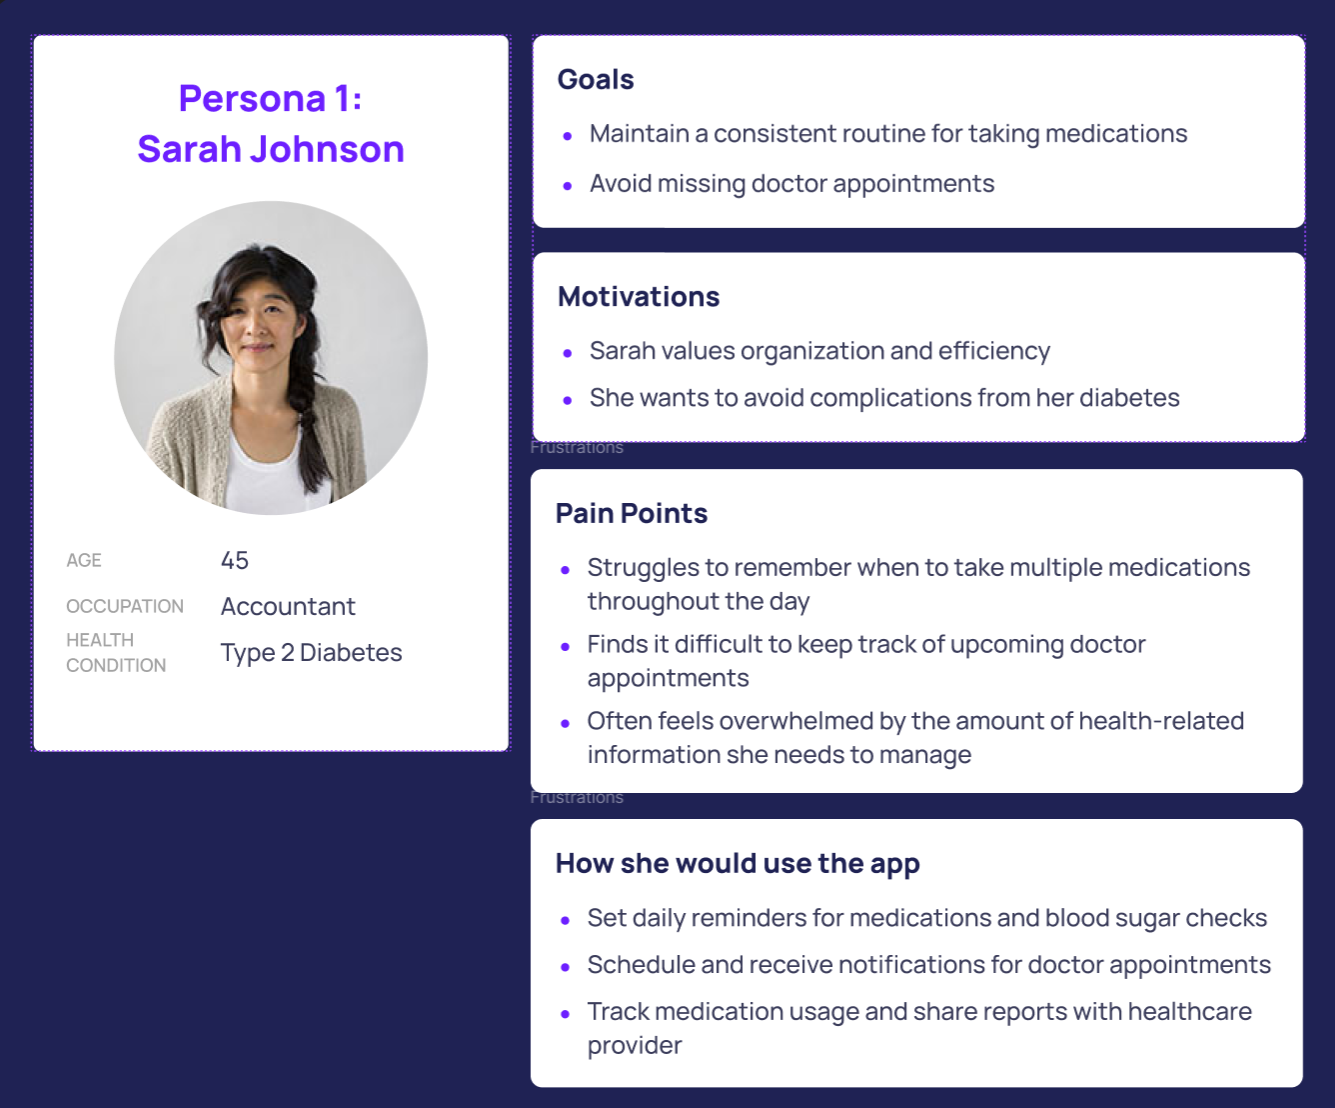
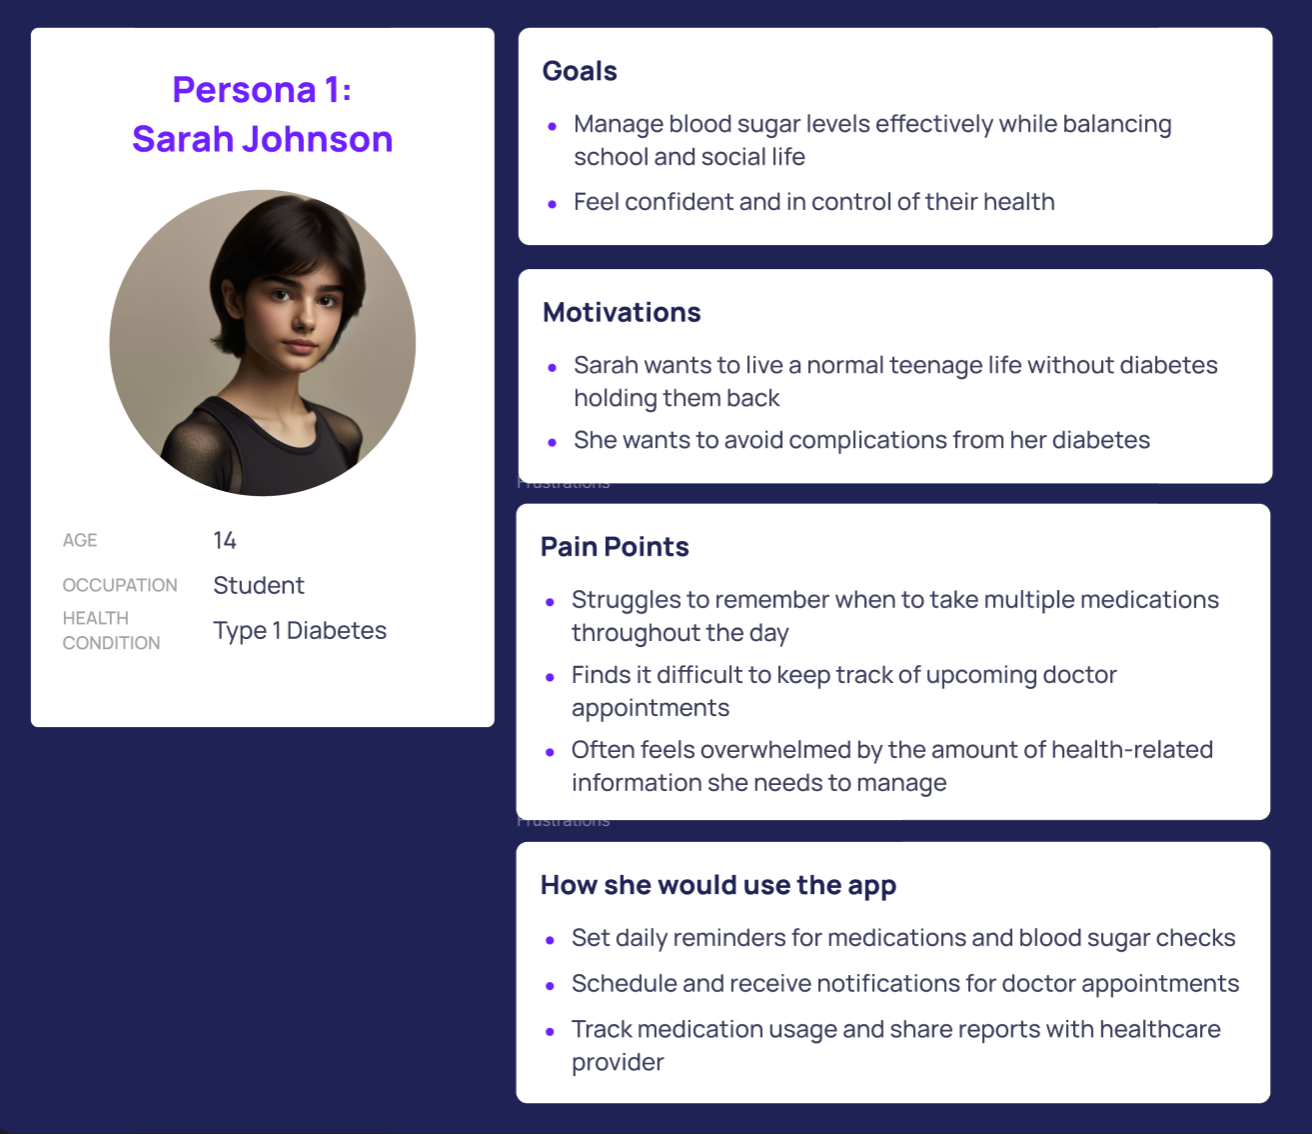
reformatted website to be more like an article and updated wireframe

Changed region(s): [[0.0, 0.0, 1.0, 0.9819], [0.0312, 0.0, 0.375, 0.0307]]

diff --git a/index.html b/index.html
@@ -3,57 +3,101 @@
 <head>
   <meta charset="UTF-8">
   <meta name="viewport" content="width=device-width, initial-scale=1.0">
-  <title>Case Study Report</title>
+  <title>Case Study: Health Companion Super App</title>
   <link rel="stylesheet" href="styles.css">
 </head>
 <body>
   <header>
-    <div class="container">
-      <h1>Case Study Report</h1>
-      <p>Health Management App</p>
-    </div>
+    <h1>Case Study: Health Companion Super App</h1>
+    <p>Designing a mobile app to help individuals manage chronic health conditions.</p>
   </header>
 
   <main>
-    <section class="intro">
-      <div class="container">
-        <h2>Welcome to the Case Study Report</h2>
-        <p>
-          This report outlines the design process for a health management app aimed at helping individuals with chronic health conditions manage their medications and doctor appointments. Explore the following sections to learn more:
-        </p>
+    <!-- Introduction Section -->
+    <section id="introduction">
+      <h2>Introduction</h2>
+      <p>
+        Chronic health conditions require consistent management of medications, appointments, and communication with healthcare providers. This case study outlines the design process for the <strong>Health Companion Super App</strong>. 
+        The mobile app's goal is to simplify these tasks and most importantly to help users keep up with their health needs.
+      </p>
+    </section>
+
+    <!-- Task Section -->
+    <section id="task">
+      <h2>The Task</h2>
+      <p>
+        The goal was to design a user-friendly mobile app that allows users to:
+      </p>
+      <ul>
+        <li>Set medication reminders</li>
+        <li>Track medication usage</li>
+        <li>Schedule and manage doctor appointments</li>
+        <li>Communicate with healthcare professionals</li>
+      </ul>
+    </section>
+
+    <!-- Personas Section -->
+    <section id="personas">
+      <h2>Personas</h2>
+      <p>
+        Based on user research, three personas were created to represent the target users:
+      </p>
+      <div class="persona-grid">
+        <div class="persona">
+          <img src="Persona-1.png" alt="Persona 1: The Independant Teenager">
+          <p><strong>The Independant Teenager</strong></p>
+        </div>
+        <div class="persona">
+          <img src="Persona-2.png" alt="Persona 2: The Busy Dad">
+          <p><strong>The Busy Dad</strong></p>
+        </div>
+        <div class="persona">
+          <img src="Persona-3.png" alt="Persona 3: The Forgetful Senior">
+          <p><strong>The Forgetful Senior</strong></p>
+        </div>
       </div>
     </section>
 
-    <section class="links">
-      <div class="container">
-        <div class="card">
-          <a href="personas.html">
-            <h3>Personas</h3>
-            <p>Explore the user personas representing typical users of the app.</p>
-          </a>
-        </div>
+    <!-- User Journey Map Section -->
+    <section id="user-journey">
+      <h2>User Journey Map</h2>
+      <p>
+        The user journey map allows developpers to identify steps in the user process that can cause inconveniences for the user.
+        This helps identify situations which might require more research or improvement.
+      </p>
+      <img src="user-journey-map.png" alt="User Journey Map" class="full-width-image">
+    </section>
 
-        <div class="card">
-          <a href="user-journey.html">
-            <h3>User Journey Map</h3>
-            <p>Understand the user journey and pain points in the current workflow.</p>
-          </a>
-        </div>
+    <!-- Wireframes Section -->
+    <section id="wireframes">
+      <h2>Wireframes</h2>
+      <p>
+        A few wireframe sketches were made on paper to get feedback on the layout of the app. 
+        The following image is the final version of the wireframe which was later used to help deisgn the prototype.
+      </p>
+      <img src="wireframe.jpg" alt="Wireframes" class="full-width-image">
+    </section>
 
-        <div class="card">
-          <a href="wireframes.html">
-            <h3>Wireframes & Prototypes</h3>
-            <p>View the wireframes and interactive prototypes of the app.</p>
-          </a>
-        </div>
+    <!-- Prototype Section -->
+    <section id="prototype">
+      <h2>Prototype</h2>
+      <p>
+        The following clickable prototype was produced using Figma to showcase the interface and test it's ease of use. The window below can be used to test it out.
+      </p>
+      <div class="prototype-embed">
+        <iframe
+          style="border: 1px solid rgba(0, 0, 0, 0.1);"
+          width="100%"
+          height="600"
+          src="https://www.figma.com/embed?embed_host=share&url=https%3A%2F%2Fwww.figma.com%2Fproto%2FqyeGcqVGFSI0VyC5LUXdGt%2FPrototype%3Fnode-id%3D3-166%26p%3Df%26t%3DkzBoEwTvsABO2QKm-1%26scaling%3Dscale-down%26content-scaling%3Dfixed%26page-id%3D0%253A1%26starting-point-node-id%3D3%253A166"
+          allowfullscreen
+        ></iframe>
       </div>
     </section>
   </main>
 
   <footer>
-    <div class="container">
-      <p>&copy; 2023 Health Management App. All rights reserved.</p>
-    </div>
+    <p>&copy; 2025 Health Companion Super App Case Study. Designed by Nathanial Hwong.</p>
   </footer>
 </body>
 </html>

diff --git a/styles.css b/styles.css
@@ -1,18 +1,17 @@
 /* styles.css */
 body {
   font-family: Arial, sans-serif;
+  line-height: 1.6;
   margin: 0;
   padding: 0;
   background-color: #f9f9f9;
   color: #333;
-  line-height: 1.6;
 }
 
-/* Header Styles */
 header {
-  background-color: #4CAF50;
+  background-color: #007BFF;
   color: white;
-  padding: 40px 0;
+  padding: 20px;
   text-align: center;
 }
 
@@ -26,108 +25,70 @@ header p {
   font-size: 1.2rem;
 }
 
-.container {
-  width: 90%;
+main {
+  padding: 20px;
   max-width: 1200px;
   margin: 0 auto;
 }
 
-/* Introduction Section Styles */
-.intro {
-  padding: 40px 0;
-  text-align: center;
-  background-color: white;
+section {
+  margin-bottom: 40px;
 }
 
-.intro h2 {
+h2 {
+  color: #007BFF;
   font-size: 2rem;
   margin-bottom: 20px;
 }
 
-.intro p {
+p {
   font-size: 1.1rem;
-  max-width: 800px;
-  margin: 0 auto;
 }
 
-/* Links Section Styles */
-.links {
-  padding: 40px 0;
-  background-color: #f1f1f1;
+ul {
+  list-style-type: disc;
+  margin-left: 20px;
 }
 
-.links .card {
-  background-color: white;
-  border-radius: 10px;
-  box-shadow: 0 4px 8px rgba(0, 0, 0, 0.1);
-  padding: 20px;
-  margin: 20px 0;
-  text-align: center;
-  transition: transform 0.3s ease, box-shadow 0.3s ease;
-}
-
-.links .card:hover {
-  transform: translateY(-10px);
-  box-shadow: 0 8px 16px rgba(0, 0, 0, 0.2);
-}
-
-.links .card a {
-  text-decoration: none;
-  color: inherit;
-}
-
-.links .card h3 {
-  font-size: 1.5rem;
-  margin-bottom: 10px;
-  color: #4CAF50;
-}
-
-.links .card p {
-  font-size: 1rem;
-  color: #666;
-}
-
-/* Personas Page Styles */
-main.personas {
-  padding: 20px;
-}
-
-.persona-table {
-  display: flex;
+.persona-grid {
+  display: grid;
+  grid-template-columns: repeat(auto-fit, minmax(250px, 1fr));
   gap: 20px;
-}
-
-.left-column {
-  flex: 1;
-  display: flex;
-  flex-direction: column;
-  gap: 20px;
-}
-
-.right-column {
-  flex: 1;
+  margin-top: 20px;
 }
 
 .persona {
-  background-color: white;
-  border-radius: 10px;
-  box-shadow: 0 4px 8px rgba(0, 0, 0, 0.1);
-  overflow: hidden;
+  text-align: center;
 }
 
 .persona img {
   width: 100%;
-  height: auto;
-  display: block;
+  border-radius: 10px;
+  box-shadow: 0 4px 8px rgba(0, 0, 0, 0.1);
 }
 
-/* Footer Styles */
+.persona p {
+  margin-top: 10px;
+  font-weight: bold;
+}
+
+.full-width-image {
+  width: 100%;
+  border-radius: 10px;
+  box-shadow: 0 4px 8px rgba(0, 0, 0, 0.1);
+}
+
+.prototype-embed {
+  margin-top: 20px;
+  border-radius: 10px;
+  overflow: hidden;
+  box-shadow: 0 4px 8px rgba(0, 0, 0, 0.1);
+}
+
 footer {
   text-align: center;
-  padding: 10px;
-  background-color: #333;
+  padding: 20px;
+  background-color: #007BFF;
   color: white;
-  position: fixed;
-  bottom: 0;
-  width: 100%;
+  margin-top: 40px;
 }
